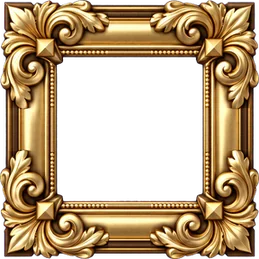
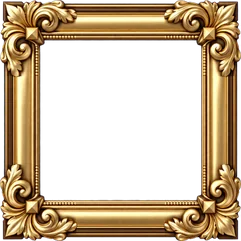
fix: P22 batch 2 review - slimmer table frame so board captions stay on the felt
The carved table frame band ate 15.3px into every --frame box (old SVG frame
10.7px); on phones the last line of the mines/tower board caption sat ~40% on
the gold bar (contrast ~2.9).

frame-table.webp is re-cut from the same art (frame_slim.py): the plain middle
of each edge is lengthened so a 170px corner maps onto the unchanged 108px
slice. The band is now 40-42px of 108 (13.7px shown, ~9.7px into the box);
ornaments scale with it. CSS is unchanged (108 / 36px / 4px stretch), so box
sizes and positions do not move. 241x241, 14,928 B (was 259x259, 23,448 B).

Mines/tower waiting caption: ink now ends 1px above the band (was 5px into
it, 0 overlapping pixels), 10.5px above the board edge; bottom-row multipliers
5.5-6px clear (was 0-0.5px). Chromium and WebKit, 393 and 320.

diff --git a/static/night.css b/static/night.css
@@ -2217,7 +2217,9 @@ html.buttons2-ready :is(#app,#modal,#social-root) :is(.button[aria-pressed]:not(
 
 /* 6 金框（九宮格）：牌桌雕花框（三層金線＋四角卷草與菱釘）換掉 --frame 的內嵌 SVG，切片、寬度、往外 4px 的寫法和原本一樣（盒子尺寸不變，畫在子元素底下、不吃點擊）；
    操作卡（.table-control-area）換細雙線金框＋四角金菱：border 寬不變（圖畫在邊框層，往內 14px，蓋在內距上、在內容底下），原本的內雙線陰影拿掉免得疊三層。
-   border-image 不跟圓角走，卡片圓角收小到 8px，讓四角金菱蓋住轉角。德州、麻將的胡桃木框不受影響。 */
+   border-image 不跟圓角走，卡片圓角收小到 8px，讓四角金菱蓋住轉角。德州、麻將的胡桃木框不受影響。
+   審查 H1：牌桌框邊條在 108 切片裡收到 40～42px（顯示約 13.7px，往外 4px 後吃進盒子約 9.7px，比舊 SVG 框的 10.7px 還細一點），
+   手機礦區、爬塔棋盤最後一行說明字整行在絨布上、和金條隔約 1px；做法見 美術稿/按鈕設計/第2版/腳本/frame_slim.py（CSS 不變）。 */
 html.buttons2-ready{--frame:url("/assets/buttons/frame-table.webp") 108 / 36px / 4px stretch}
 html.buttons2-ready :is(#app,#modal,#social-root) .table-control-area{border-image:url("/assets/buttons/frame-card.webp") 42 / 14px / 0 stretch;border-radius:8px;box-shadow:var(--shadow-soft)}
 
